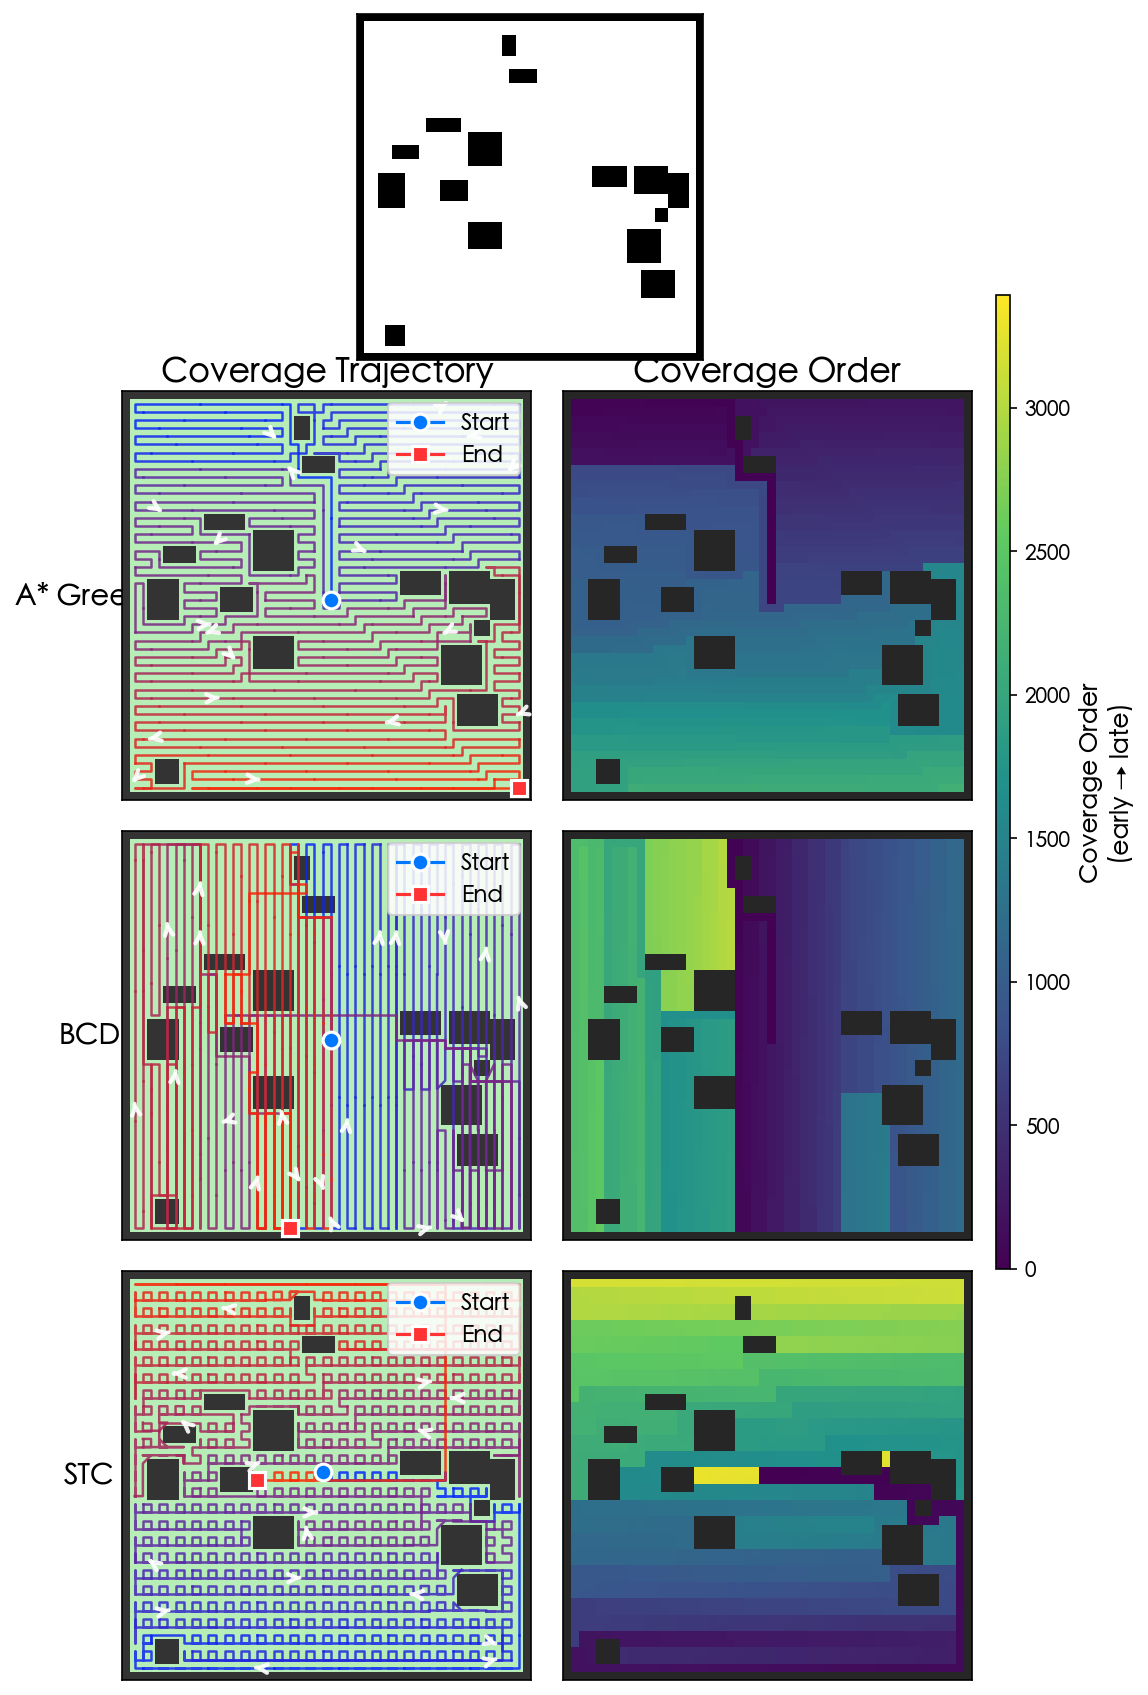
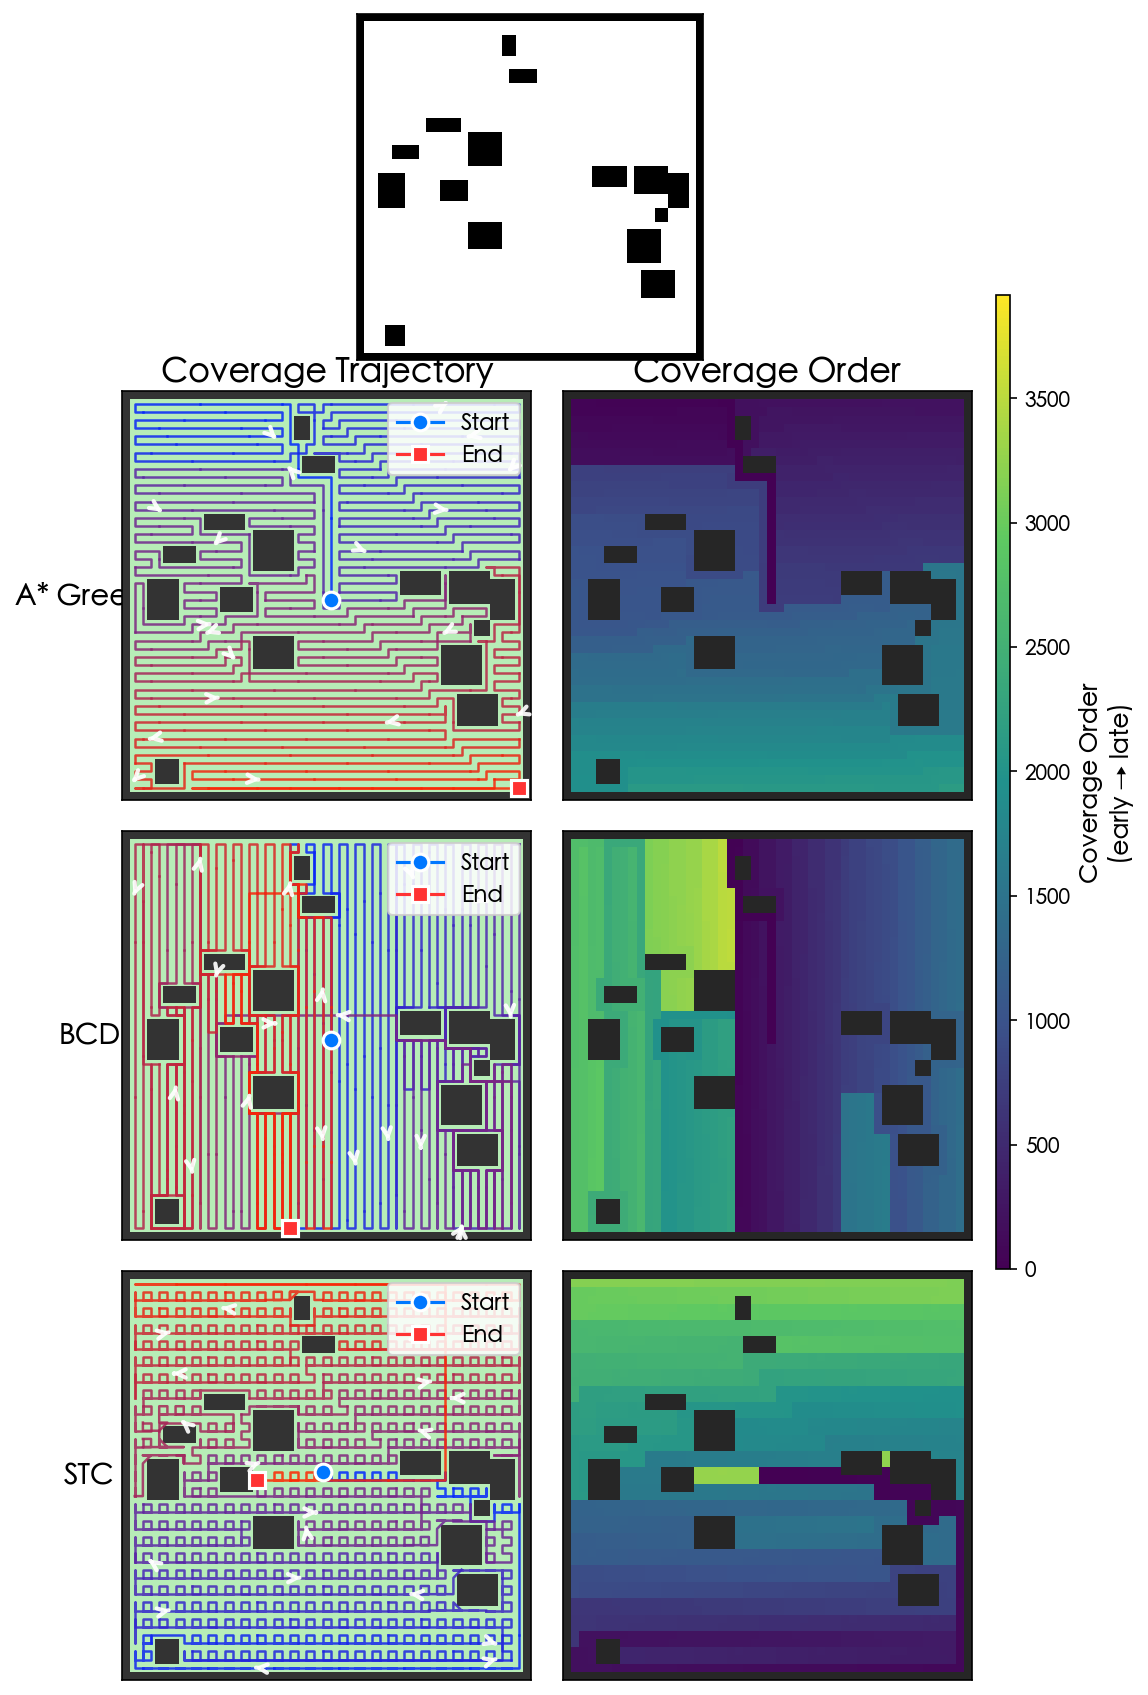
Fix BCD path crossing obstacles
- Root cause: boustrophedon path jumps over obstacle cells within a column
  (e.g. (22,5)→(28,5) skipping rows 23-27), creating non-adjacent steps
  whose straight-line rendering crosses obstacle cells
- Fix: add _smooth_path post-processing step that detects non-adjacent
  consecutive path points and replaces each with an A* shortest path
- All BCD paths now have 0 obstacle crossings and 0 discontinuous steps
- Path length increases slightly due to A* detours around obstacles

diff --git a/planners/bcd.py b/planners/bcd.py
@@ -605,7 +605,37 @@ class BCDCoverage:
 
             current_pos = full_path[-1]
 
+        # ── post-process: fill any remaining jumps with A* paths ──
+        full_path = self._smooth_path(grid, full_path)
+
         return full_path
+
+    def _smooth_path(
+        self, grid: np.ndarray, raw_path: List[Tuple[int, int]]
+    ) -> List[Tuple[int, int]]:
+        """
+        用 A* 短路径替换原始路径中的非相邻跳跃。
+        确保完整路径中任意连续两步均 4-连通相邻。
+        """
+        if len(raw_path) < 2:
+            return raw_path
+        smoothed = [raw_path[0]]
+        for i in range(1, len(raw_path)):
+            prev = smoothed[-1]
+            curr = raw_path[i]
+            d = abs(prev[0] - curr[0]) + abs(prev[1] - curr[1])
+            if d <= 1:
+                if prev != curr:
+                    smoothed.append(curr)
+            else:
+                link = self._astar_connect(grid, prev, curr)
+                if link:
+                    for p in link[1:]:
+                        if p != smoothed[-1]:
+                            smoothed.append(p)
+                else:
+                    smoothed.append(curr)
+        return smoothed
 
     def _boustrophedon_path(
         self, grid: np.ndarray, cell: Cell
